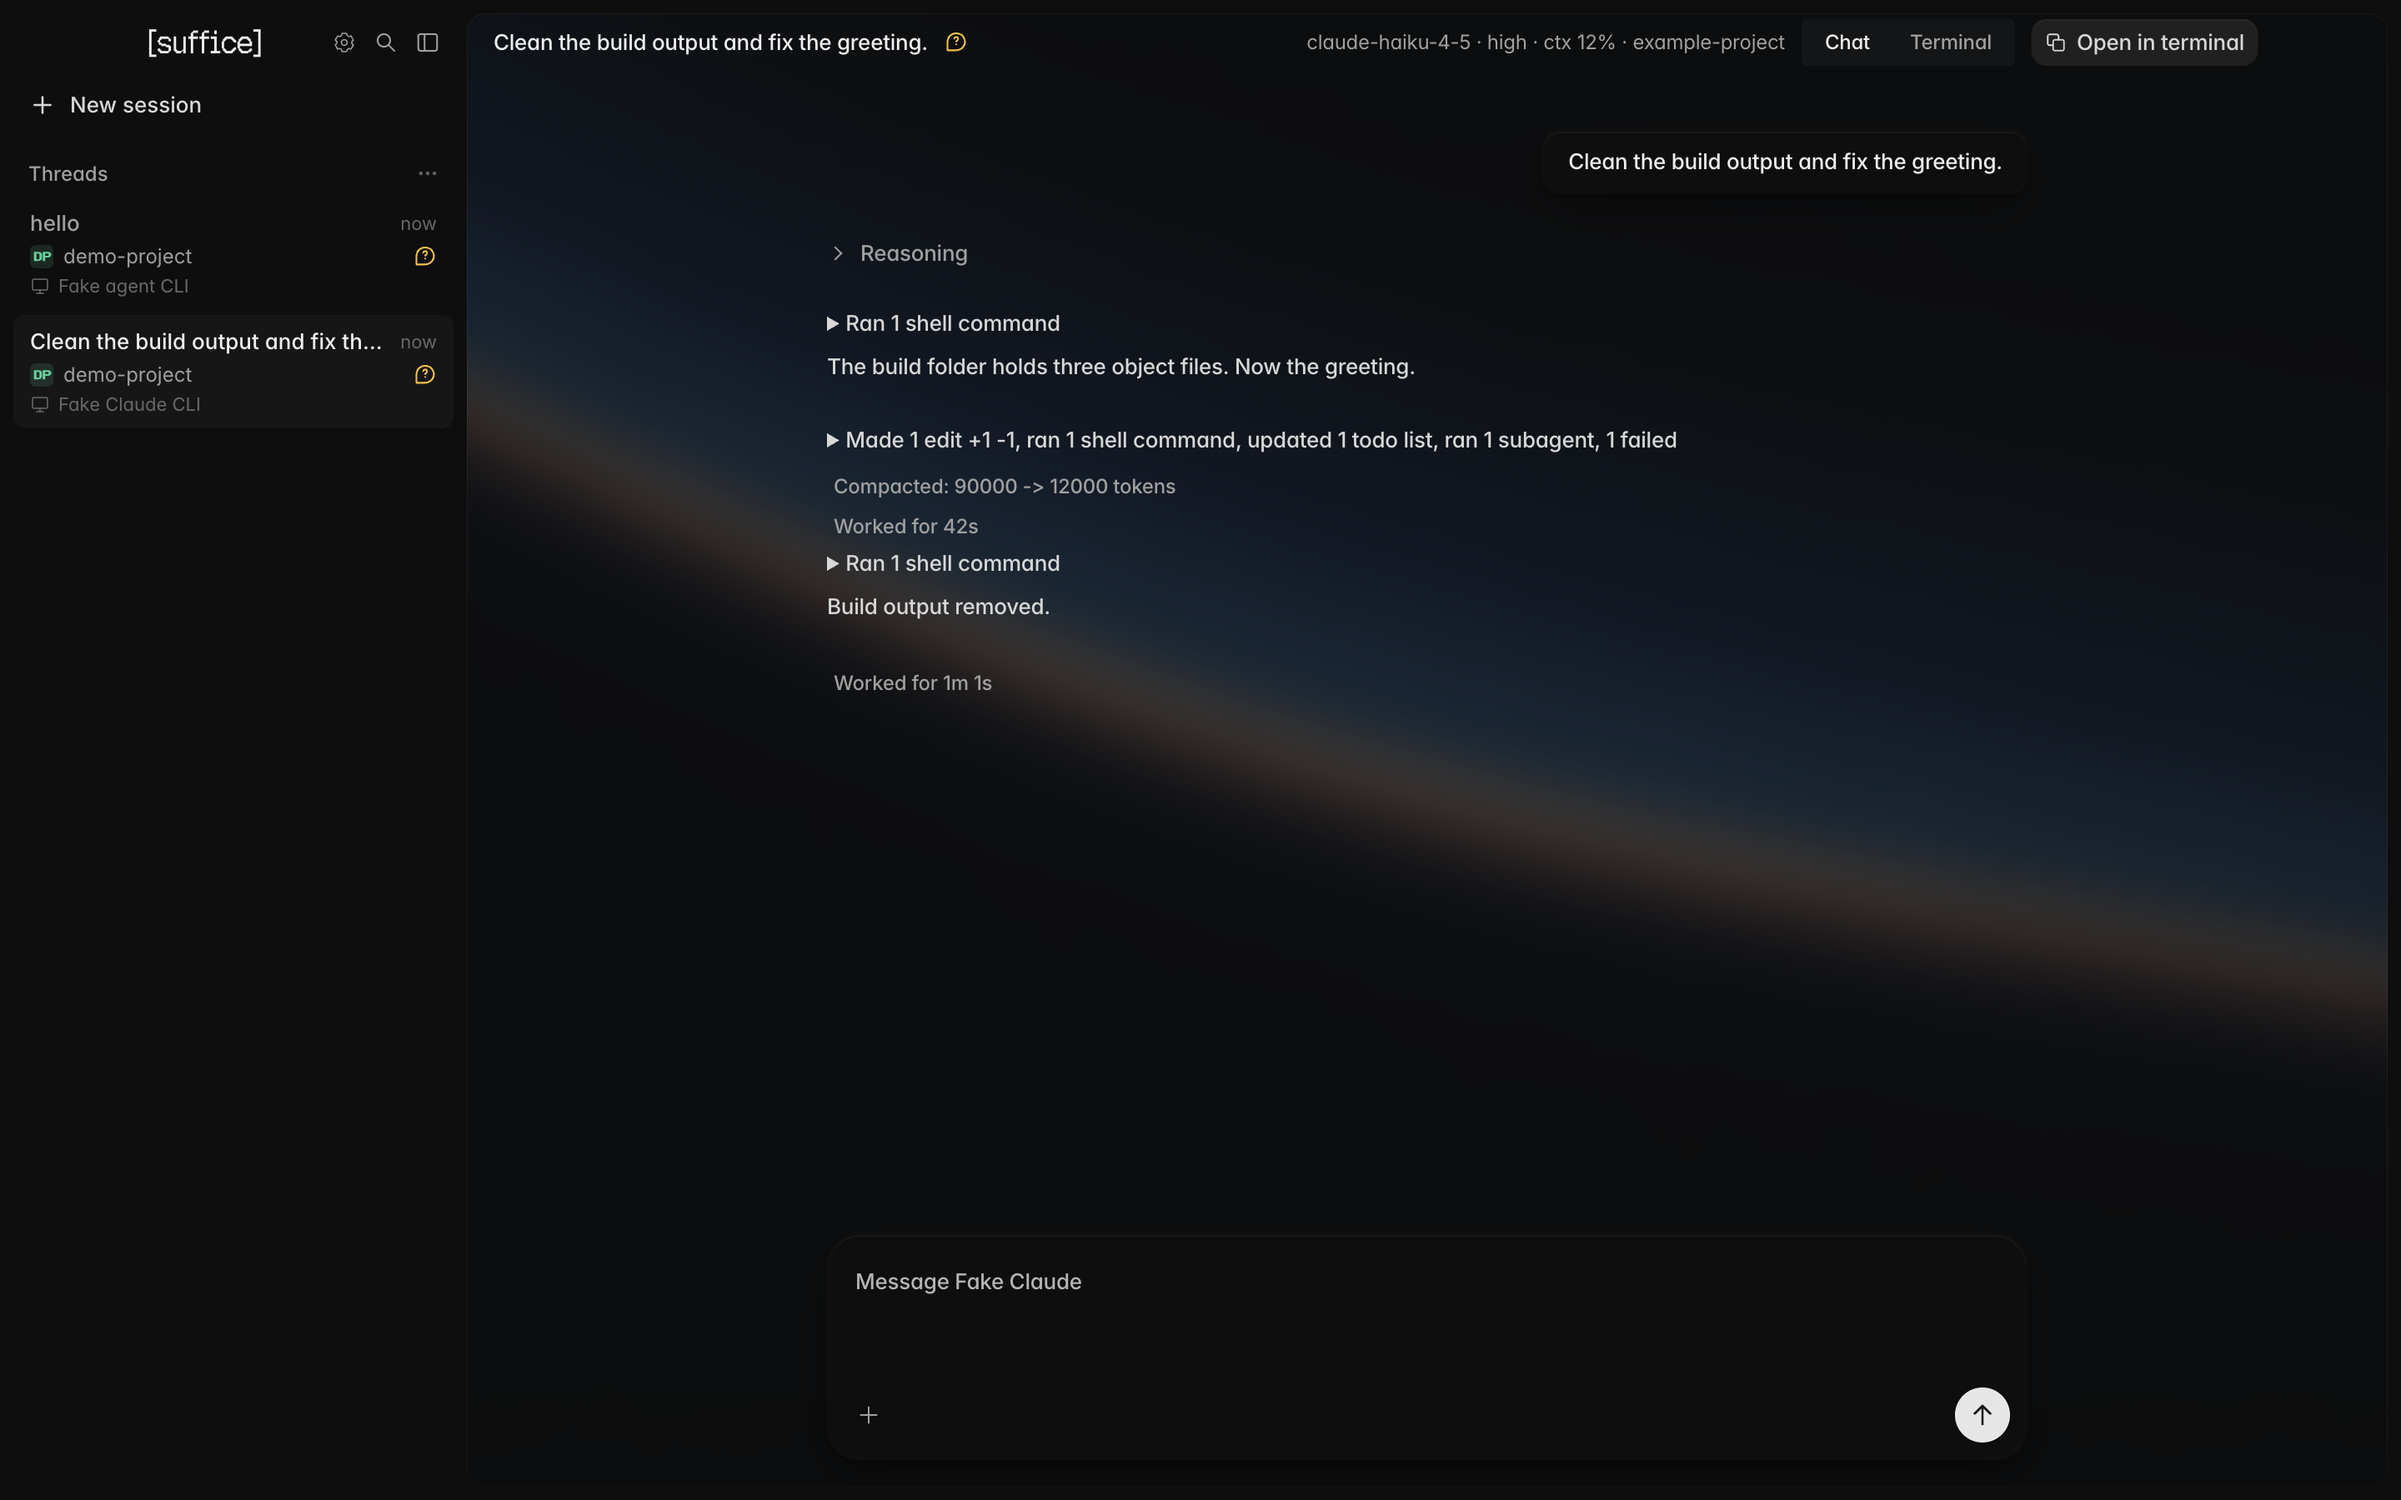
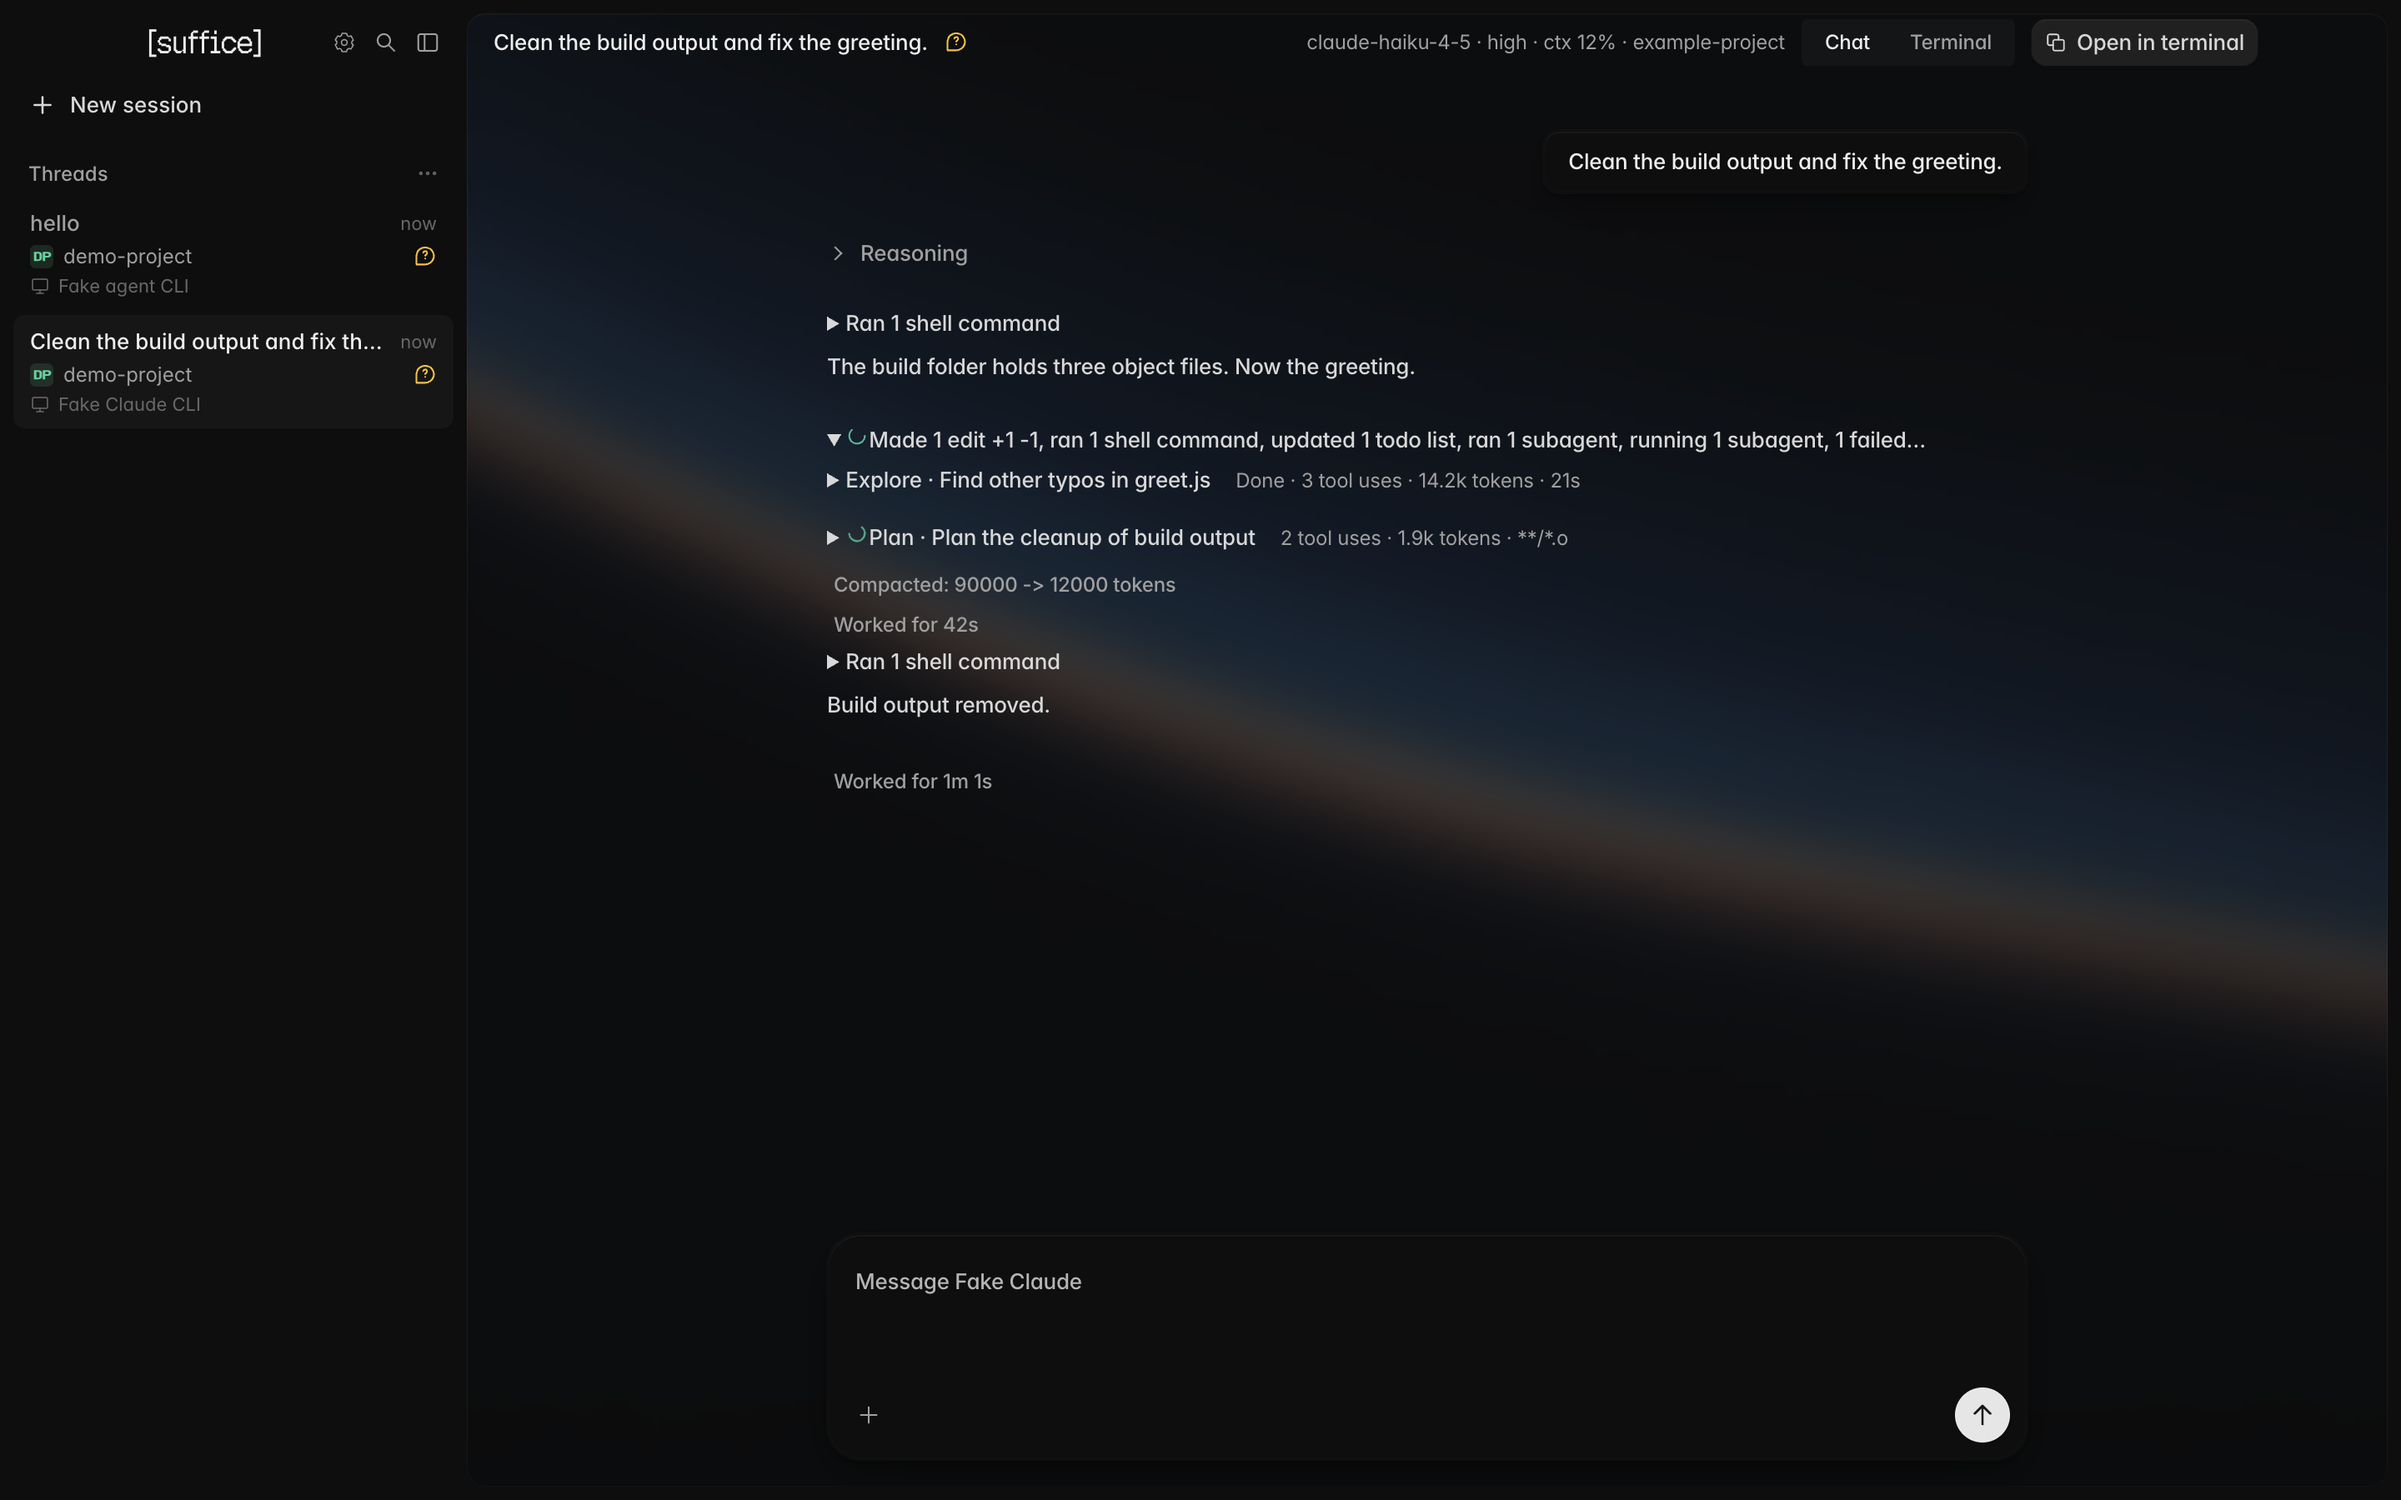
desktop: subagents as live, expandable blocks in session chat
Each subagent shows its type and description, a running line with tool uses, tokens
and latest action, and a done line with totals. Expanding shows the subagent's own
conversation with the same renderers, one level in; parallel and nested subagents
are handled. Child transcripts are found through the meta file's tool-use id, so a
subagent links while still running. The prompt card no longer includes the working
line. Known: a running block rebuilds on update, so inner open states reset; tokens
can double-count cached context when the parent total is missing.

Claude-Session: https://claude.ai/code/session_01FURob5WxwNL4uoFEGwYt55

Changed region(s): [[0.3438, 0.28, 0.7812, 0.5289]]

diff --git a/apps/desktop/src/sessions-ui.js b/apps/desktop/src/sessions-ui.js
@@ -29,10 +29,10 @@ export function connectSessions({toast,form,workspace,header,hooks}){
  if(!sx)return {leave(){},isActive:()=>false,stop:()=>false,send(){}};
  const side=el('div','sidebar-cli-sessions');
  document.querySelector('.sidebar-sessions').before(side);
- const rows=new Map(),states=new Map(),labels=new Map(),titles=new Map();
+ const rows=new Map(),states=new Map(),prompts=new Map(),subs=new Map(),labels=new Map(),titles=new Map();
  const name=s=>titles.get(s.id)||`${labels.get(s.id)||s.agent} session`;
  let active=null,mode='chat',unsubs=[],termEl=null,views=null,viewPromise=null,import_=null;
- let ui=null,statusEl=null,uiUnsub=null,box=null,useItems=false,lastMsgs=[],card=null,cardSig='',metaEl=null,termBtn=null;const cache=new Map();
+ let ui=null,statusEl=null,uiUnsub=null,subUnsub=null,box=null,useItems=false,lastMsgs=[],card=null,cardSig='',metaEl=null,termBtn=null;const cache=new Map();
  const termIds=new Map();
  form.addEventListener('submit',e=>{if(card){e.preventDefault();e.stopImmediatePropagation();}},true);
 
@@ -41,7 +41,8 @@ export function connectSessions({toast,form,workspace,header,hooks}){
   const seen=new Set();
   for(const s of list){
    seen.add(s.id);labels.set(s.id,avail.agents.find(a=>a.id===s.agent)?.label||s.agent);
-   if(!states.has(s.id)){states.set(s.id,'starting');sx.onState(s.id,v=>{states.set(s.id,v?.state||'starting');paint(s);if(active?.id===s.id){paintHeader();syncRun();}});}
+   if(!states.has(s.id)){states.set(s.id,'starting');sx.onState(s.id,v=>{states.set(s.id,v?.state||'starting');paint(s);if(active?.id===s.id){paintHeader();syncRun();}});
+    sx.onUi(s.id,u=>{const had=prompts.get(s.id);prompts.set(s.id,u?!!u.prompt:undefined);if(had!==prompts.get(s.id))paint(s);});}
    paint(s);
   }
   for(const [id,row] of rows)if(!seen.has(id)){row.remove();rows.delete(id);}
@@ -50,7 +51,8 @@ export function connectSessions({toast,form,workspace,header,hooks}){
   let row=rows.get(s.id);
   if(!row){row=el('button','thread-row session-row session-row--sidebar');row.type='button';row.addEventListener('click',()=>open(row._s));rows.set(s.id,row);side.append(row);}
   row._s=s;
-  const state=states.get(s.id)||'starting';
+  let state=states.get(s.id)||'starting';
+  if(state==='needs_permission'&&prompts.get(s.id)===false)state='working'; // badge follows the screen: no prompt on it, no "?"
   populateThreadRow(row,{id:'session-'+s.id,title:name(s),project:base(s.cwd),status:STATUS[state]||'working',modified:(s.created&&s.created<1e12?s.created*1000:s.created)||Date.now()});
   const label=labels.get(s.id);const noGit=row.querySelector('.thread-no-branch span');if(noGit)noGit.textContent=label+' CLI';
   row.setAttribute('aria-pressed',String(active?.id===s.id));row.title=`${name(s)} (${label} CLI)`;
@@ -89,30 +91,59 @@ export function connectSessions({toast,form,workspace,header,hooks}){
    for(const d of o.diff){const c=el('div','tool-diff');body.append(c);later.push(()=>renderCode(c,{text:patchOf(d),path:d.path},true));}}
   return w.element;
  }
- function build(it,later){
+ function build(it,later,depth=0){
   if(it.kind==='user'||it.kind==='assistant'){const a=el('article',`thread-message thread-${it.kind}`);if(it.kind==='assistant')hooks.markdown(a,it.text);else a.textContent=it.text;return a;}
   if(it.kind==='thinking'){const d=el('details','thread-activity');const log=el('div','thread-activity-log');log.append(el('div','thread-reasoning',it.text));d.append(el('summary','','Reasoning'),log);return d;}
   if(it.kind==='tool')return buildTool(it,later);
   if(it.kind==='todo'){const d=el('details','thread-activity');d.open=true;const log=el('div','thread-activity-log');
    const done=it.items.filter(i=>i.status==='done').length;d.append(el('summary','',`Plan ${done}/${it.items.length}`),log);
    for(const i of it.items)log.append(el('div','session-todo',(i.status==='done'?'✓ ':i.status==='active'?'› ':'○ ')+i.text));return d;}
-  if(it.kind==='subagent'){const d=el('details','thread-detail tool-widget');d.dataset.status=it.status==='running'?'pending':it.status==='error'?'error':'completed';
-   const s=el('summary','',`${it.name} · ${it.status==='running'?'running':it.status==='error'?'failed':'done'}`);if(it.status==='running')s.prepend(threadState({status:'working'}));
-   const b=el('div','tool-widget-body');b.append(el('pre','tool-input',it.prompt||''));d.append(s,b);return d;}
+  if(it.kind==='subagent')return buildSub(it,later,depth);
   if(it.kind==='notice')return el('div',`session-notice session-notice--quiet${it.level==='info'?'':' is-'+it.level}`,it.text);
   return null;
  }
+ // Subagent block: header + quiet stats line; children (same renderers) are built only when opened, last 200 shown.
+ const SHOW=200,subLimit=new Map(),kfmt=n=>n>=1000?(n/1000).toFixed(1).replace(/\.0$/,'')+'k':String(n);
+ const plural=(n,w)=>`${n} ${w}${n===1?'':'s'}`;
+ function subStats(it){
+  const run=it.status==='running',bits=[plural(it.toolUses??0,'tool use'),it.tokens!=null&&`${kfmt(it.tokens)} tokens`];
+  if(run)bits.push(it.lastAction);else if(it.endedAt&&it.startedAt)bits.push(dur(Math.max(0,Math.round((it.endedAt-it.startedAt)/1000))));
+  return (run?'':it.status==='error'?'Failed · ':'Done · ')+bits.filter(Boolean).join(' · ');
+ }
+ function fillSub(it,body,depth){
+  const later=[],all=it.items||[],key=it.callId,lim=subLimit.get(key)||SHOW,vis=all.slice(-lim);
+  body.replaceChildren();
+  if(all.length>vis.length){const b=el('button','button button--subtle',`Show ${all.length-vis.length} earlier`);b.type='button';b.addEventListener('click',()=>{subLimit.set(key,lim+SHOW);fillSub(it,body,depth);});body.append(b);}
+  if(depth>=3)body.append(el('div','session-notice--quiet session-notice',`Level ${depth+2}`));
+  renderRuns(vis,body,later,depth+1);for(const f of later)f();
+ }
+ function renderRuns(items,into,later,depth){
+  const entries=[];for(const it of items){if(it.kind==='usage')continue;const l=entries.at(-1);
+   if(RUN.has(it.kind)){if(l?.run)l.run.push(it);else entries.push({run:[it]});}else entries.push({it});}
+  for(const e of entries){const n=e.run?buildRun(e.run,later,null,depth):build(e.it,later,depth);if(n)into.append(n);}
+ }
+ function buildSub(it,later,depth){
+  const d=el('details','thread-detail tool-widget session-sub');d.dataset.status=it.status==='running'?'pending':it.status==='error'?'error':'completed';
+  const s=el('summary','session-sub-sum'),head=el('span','session-sub-head',it.description?`${it.type||it.name} · ${it.description}`:(it.type||it.name));
+  if(it.status==='running')s.prepend(threadState({status:'working'}));
+  s.append(head,el('span','session-sub-stats',subStats(it)));
+  const b=el('div',depth>=3?'tool-widget-body session-sub-body session-sub-flat':'thread-activity-log session-sub-body');
+  if(!it.items?.length&&it.prompt)b.append(el('pre','tool-input',it.prompt));
+  d.append(s,b);
+  d.addEventListener('toggle',()=>{if(d.open&&it.items?.length&&!b._built){b._built=true;fillSub(it,b,depth);}});
+  return d;
+ }
  const RUN=new Set(['tool','todo','subagent']),isRun=it=>it.kind==='tool'?it.status==='running':it.status==='running';
  // A maximal run of tool/todo/subagent items is one disclosure labelled by summarizeTools; running = open at its latest row, done = collapsed.
- function buildRun(run,later,old){
+ function buildRun(run,later,old,depth=0){
   const running=run.some(isRun),d=el('details','session-run thread-detail');d.dataset.running=String(running);
   const sum=el('summary','',summarizeTools(run).text);if(running)sum.prepend(threadState({status:'working'}));
-  const body=el('div','session-run-body');run.forEach((it,i)=>{const n=build(it,later);if(!n)return;if(running&&i<run.length-1)n.hidden=true;body.append(n);});
+  const body=el('div','session-run-body');run.forEach((it,i)=>{const n=build(it,later,depth);if(!n)return;if(running&&i<run.length-1&&it.kind!=='subagent')n.hidden=true;body.append(n);});
   d.append(sum,body);d.open=running?true:old&&old.dataset.running==='false'?old.open:false;return d;
  }
  function drawItems(){
   if(!box||!ui)return;const later=[];let prev=null;
-  const entries=[];for(const it of ui.items){if(it.kind==='usage')continue;const l=entries.at(-1);
+  const entries=[];for(let it of ui.items){if(it.kind==='usage')continue;if(it.kind==='subagent'&&subs.get(it.callId))it={...it,...subs.get(it.callId)};const l=entries.at(-1);
    if(RUN.has(it.kind)){if(l?.run)l.run.push(it);else entries.push({id:'run:'+it.id,run:[it]});}else entries.push({id:it.id,it});}
   for(const e of entries){
    const sg=JSON.stringify(e.run||e.it),c=cache.get(e.id);let node=c?.el;
@@ -244,10 +275,11 @@ export function connectSessions({toast,form,workspace,header,hooks}){
   form.hidden=false;form.dataset.session='';prompt().placeholder=`Message ${labels.get(s.id)||'the agent'}`;
   ui=null;cardSig='';paintHeader();showChat();
   uiUnsub=sx.onUi(s.id,u=>{ui=u;paintMeta();if(mode==='chat')drawChat();drawPrompt();});
+  subs.clear();subLimit.clear();subUnsub=sx.onSubagents?.(s.id,l=>{subs.clear();for(const x of l||[])subs.set(x.callId,x);if(mode==='chat')drawChat();});
  }
  function leave(){
   if(!active&&!import_)return;
-  unsubs.forEach(f=>f());unsubs=[];uiUnsub?.();uiUnsub=null;ui=null;drawPrompt();active=null;form.setRunning?.(false);
+  unsubs.forEach(f=>f());unsubs=[];uiUnsub?.();uiUnsub=null;subUnsub?.();subUnsub=null;ui=null;drawPrompt();active=null;form.setRunning?.(false);
   venomEnd();if(termEl){termEl.hidden=true;delete termEl.dataset.solid;}
   form.hidden=false;delete form.dataset.session;prompt().placeholder=PH;
   header.className='thread-header';delete header.dataset.status;

diff --git a/apps/desktop/src/sessions.css b/apps/desktop/src/sessions.css
@@ -43,3 +43,9 @@ body:has(.session-row) .sidebar-empty { display: none; }
 .session-status { display: flex; align-items: center; gap: 8px; padding: 4px 0; color: var(--text-muted); font-size: 13px; }
 .session-status .thread-state { color: #60a5fa; }
 .session-status .thread-state svg { animation: thread-working 1.2s linear infinite; }
+.session-sub-sum { flex-wrap: wrap; }
+.session-sub-head { flex: 1 1 auto; min-width: 0; overflow: hidden; text-overflow: ellipsis; white-space: nowrap; }
+.session-sub-stats { flex: 0 0 100%; padding-left: 15px; color: var(--text-muted); font-size: 12px; font-weight: 400; overflow: hidden; text-overflow: ellipsis; white-space: nowrap; }
+.session-sub-body { display: flex; flex-direction: column; gap: 4px; }
+.session-sub-body > .button { align-self: flex-start; }
+.session-sub-flat { margin-left: 0; }
